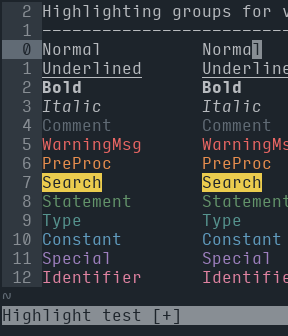
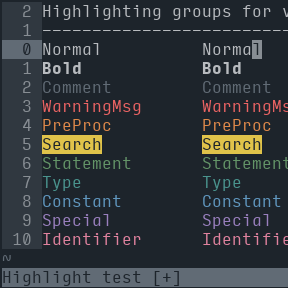
overhaul

Changed region(s): [[0.0, 0.0, 0.5, 0.875], [0.1562, 0.0, 1.0, 0.875], [0.0, 0.875, 1.0, 1.0]]

diff --git a/README.md b/README.md
@@ -1,6 +1,6 @@
 <h1 id="seagrey">seagrey</h1>
 
-<p>A vim theme inspired by the sea.</p>
+<p>A vim theme inspired by the blue-greys of an overcast sea.</p>
 
 <h2 id="screenshots">screenshots</h2>
 
@@ -9,6 +9,10 @@
 <td align="center"><img src="/img/screenshot-seagrey-light.png" alt="screenshot of the seagrey-light vim theme" width="288" /> <img src="/img/screenshot-seagrey-dark.png" alt="screenshot of the seagrey-dark vim theme" width="288" /></td>
 <td align="center"><strong>seagrey-<br />dark</strong></td></tr>
 </table>
+
+<blockquote>
+  <p>pictured font: <a href="http://input.fontbureau.com/">Input Mono</a></p>
+</blockquote>
 
 <h2 id="setup">setup</h2>
 
@@ -60,8 +64,8 @@ call plug#end()
   <li>8 theme-distinct <strong>base colours</strong></li>
   <li>8 standard <strong>accent colours</strong> (shared by members of the “nightsense theme family”) for syntax highlighting
     <ul>
-      <li>hue selection at the scale of 1/12 (30°) colour wheel intervals, followed by 1/12 subinterval adjustments</li>
-      <li>value and saturation tuned for light backgrounds, then saturation lowered for dark backgrounds</li>
+      <li>hues were selected at the scale of 1/12 (30°) colour wheel intervals, followed by 1/12 subinterval adjustments</li>
+      <li>value and saturation were tuned for light backgrounds, then saturation was lowered for dark backgrounds</li>
     </ul>
   </li>
 </ul>
@@ -77,67 +81,67 @@ call plug#end()
   <tbody>
     <tr>
       <td style="text-align: right"><img src="http://www.colorhexa.com/1d242b.png" height="24" width="42" /> <code class="highlighter-rouge">1d242b</code> </td>
-      <td style="text-align: center"><img src="http://www.colorhexa.com/eb403a.png" height="24" width="42" /> <code class="highlighter-rouge">eb403a</code> </td>
-      <td style="text-align: left"><img src="http://www.colorhexa.com/eb6663.png" height="24" width="42" /> <code class="highlighter-rouge">eb6663</code></td>
+      <td style="text-align: center"><img src="http://www.colorhexa.com/eb3a3a.png" height="24" width="42" /> <code class="highlighter-rouge">eb3a3a</code> </td>
+      <td style="text-align: left"><img src="http://www.colorhexa.com/eb6363.png" height="24" width="42" /> <code class="highlighter-rouge">eb6363</code></td>
     </tr>
     <tr>
       <td style="text-align: right"><img src="http://www.colorhexa.com/303840.png" height="24" width="42" /> <code class="highlighter-rouge">303840</code> </td>
-      <td style="text-align: center"><img src="http://www.colorhexa.com/eb6d13.png" height="24" width="42" /> <code class="highlighter-rouge">eb6d13</code> </td>
-      <td style="text-align: left"><img src="http://www.colorhexa.com/eb8f4e.png" height="24" width="42" /> <code class="highlighter-rouge">eb8f4e</code></td>
+      <td style="text-align: center"><img src="http://www.colorhexa.com/e06812.png" height="24" width="42" /> <code class="highlighter-rouge">e06812</code> </td>
+      <td style="text-align: left"><img src="http://www.colorhexa.com/e0894a.png" height="24" width="42" /> <code class="highlighter-rouge">e0894a</code></td>
     </tr>
     <tr>
       <td style="text-align: right"><img src="http://www.colorhexa.com/3f4a54.png" height="24" width="42" /> <code class="highlighter-rouge">3f4a54</code> </td>
-      <td style="text-align: center"><img src="http://www.colorhexa.com/ebc83b.png" height="24" width="42" /> <code class="highlighter-rouge">ebc83b</code> </td>
-      <td style="text-align: left"><img src="http://www.colorhexa.com/ebcc4e.png" height="24" width="42" /> <code class="highlighter-rouge">ebcc4e</code></td>
+      <td style="text-align: center"><img src="http://www.colorhexa.com/e0bf38.png" height="24" width="42" /> <code class="highlighter-rouge">e0bf38</code> </td>
+      <td style="text-align: left"><img src="http://www.colorhexa.com/e0c34a.png" height="24" width="42" /> <code class="highlighter-rouge">e0c34a</code></td>
     </tr>
     <tr>
       <td style="text-align: right"><img src="http://www.colorhexa.com/616b75.png" height="24" width="42" /> <code class="highlighter-rouge">616b75</code> </td>
-      <td style="text-align: center"><img src="http://www.colorhexa.com/259433.png" height="24" width="42" /> <code class="highlighter-rouge">259433</code> </td>
-      <td style="text-align: left"><img src="http://www.colorhexa.com/63946a.png" height="24" width="42" /> <code class="highlighter-rouge">63946a</code></td>
+      <td style="text-align: center"><img src="http://www.colorhexa.com/25942e.png" height="24" width="42" /> <code class="highlighter-rouge">25942e</code> </td>
+      <td style="text-align: left"><img src="http://www.colorhexa.com/639467.png" height="24" width="42" /> <code class="highlighter-rouge">639467</code></td>
     </tr>
     <tr>
       <td style="text-align: right"><img src="http://www.colorhexa.com/888e94.png" height="24" width="42" /> <code class="highlighter-rouge">888e94</code> </td>
-      <td style="text-align: center"><img src="http://www.colorhexa.com/009488.png" height="24" width="42" /> <code class="highlighter-rouge">009488</code> </td>
-      <td style="text-align: left"><img src="http://www.colorhexa.com/56948f.png" height="24" width="42" /> <code class="highlighter-rouge">56948f</code></td>
+      <td style="text-align: center"><img src="http://www.colorhexa.com/0c9489.png" height="24" width="42" /> <code class="highlighter-rouge">0c9489</code> </td>
+      <td style="text-align: left"><img src="http://www.colorhexa.com/4a948e.png" height="24" width="42" /> <code class="highlighter-rouge">4a948e</code></td>
     </tr>
     <tr>
       <td style="text-align: right"><img src="http://www.colorhexa.com/b8bbbf.png" height="24" width="42" /> <code class="highlighter-rouge">b8bbbf</code> </td>
-      <td style="text-align: center"><img src="http://www.colorhexa.com/308bbf.png" height="24" width="42" /> <code class="highlighter-rouge">308bbf</code> </td>
-      <td style="text-align: left"><img src="http://www.colorhexa.com/609cbf.png" height="24" width="42" /> <code class="highlighter-rouge">609cbf</code></td>
+      <td style="text-align: center"><img src="http://www.colorhexa.com/3083bf.png" height="24" width="42" /> <code class="highlighter-rouge">3083bf</code> </td>
+      <td style="text-align: left"><img src="http://www.colorhexa.com/6097bf.png" height="24" width="42" /> <code class="highlighter-rouge">6097bf</code></td>
     </tr>
     <tr>
       <td style="text-align: right"><img src="http://www.colorhexa.com/e1e6eb.png" height="24" width="42" /> <code class="highlighter-rouge">e1e6eb</code> </td>
-      <td style="text-align: center"><img src="http://www.colorhexa.com/8c60bf.png" height="24" width="42" /> <code class="highlighter-rouge">8c60bf</code> </td>
-      <td style="text-align: left"><img src="http://www.colorhexa.com/9e80bf.png" height="24" width="42" /> <code class="highlighter-rouge">9e80bf</code></td>
+      <td style="text-align: center"><img src="http://www.colorhexa.com/8760bf.png" height="24" width="42" /> <code class="highlighter-rouge">8760bf</code> </td>
+      <td style="text-align: left"><img src="http://www.colorhexa.com/9a80bf.png" height="24" width="42" /> <code class="highlighter-rouge">9a80bf</code></td>
     </tr>
     <tr>
       <td style="text-align: right"><img src="http://www.colorhexa.com/ffffff.png" height="24" width="42" /> <code class="highlighter-rouge">ffffff</code> </td>
-      <td style="text-align: center"><img src="http://www.colorhexa.com/e05e89.png" height="24" width="42" /> <code class="highlighter-rouge">e05e89</code> </td>
-      <td style="text-align: left"><img src="http://www.colorhexa.com/e082a1.png" height="24" width="42" /> <code class="highlighter-rouge">e082a1</code></td>
+      <td style="text-align: center"><img src="http://www.colorhexa.com/e05e85.png" height="24" width="42" /> <code class="highlighter-rouge">e05e85</code> </td>
+      <td style="text-align: left"><img src="http://www.colorhexa.com/e0829e.png" height="24" width="42" /> <code class="highlighter-rouge">e0829e</code></td>
     </tr>
   </tbody>
 </table>
 
-<p><img src="http://www.colorhexa.com/eb403a.png" height="24" width="42" />
+<p><img src="http://www.colorhexa.com/eb3a3a.png" height="24" width="42" />
 <strong>Red</strong>, the colour of alarm, is used for <strong>warning elements</strong>, including error messages, misspellings, and diff deletions.</p>
 
-<p><img src="http://www.colorhexa.com/eb6d13.png" height="24" width="42" />
+<p><img src="http://www.colorhexa.com/e06812.png" height="24" width="42" />
 <strong>Orange</strong> is the colour of fire, which serves as a preliminary to many practical activities. Orange is therefore used for <strong>preliminary elements</strong>, such as preprocessor commands (which prepare data to be handled by another program), incremental searching (that is, a search term in the process of being typed), titles, and miscapitalized words.</p>
 
-<p><img src="http://www.colorhexa.com/ebc83b.png" height="24" width="42" />
+<p><img src="http://www.colorhexa.com/e0bf38.png" height="24" width="42" />
 <strong>Yellow</strong>, the classic highlighting colour, is applied to elements that are not warnings yet should draw attention with high visibility. These <strong>highlighted elements</strong> include search results, task tags (<code class="highlighter-rouge">TODO</code>, <code class="highlighter-rouge">FIXME</code>…), and diff changes.</p>
 
-<p><img src="http://www.colorhexa.com/259433.png" height="24" width="42" />
-<strong>Green</strong>, the colour that says “go ahead, proceed with the task at hand”, is used for positive <strong>action elements</strong>, such as statements (if/then, while/do, case…), mode indicators (insert, visual…), vim user prompts, and diff additions.</p>
+<p><img src="http://www.colorhexa.com/25942e.png" height="24" width="42" />
+<strong>Green</strong>, the colour that says “go ahead, proceed with the task at hand”, is used for <strong>action elements</strong>, such as statements (if/then, while/do, case…), mode indicators (insert, visual…), vim user prompts, and diff additions.</p>
 
-<p><img src="http://www.colorhexa.com/009488.png" height="24" width="42" />
+<p><img src="http://www.colorhexa.com/0c9489.png" height="24" width="42" />
 <strong>Teal</strong> is named after the “common teal”, a kind of duck, thus connecting this colour with the concept of “species”, which is a means of classifying life into very specific types. Teal is therefore used for specifying <strong>object types</strong>, such as data type (boolean, integer, string…) or storage class (static, volatile…), as well as mislocalized words (that is, words that are not misspelled but of the wrong type, namely a foreign locale type).</p>
 
-<p><img src="http://www.colorhexa.com/308bbf.png" height="24" width="42" />
+<p><img src="http://www.colorhexa.com/3083bf.png" height="24" width="42" />
 <strong>Blue</strong>, a colour of calm stability, is used for <strong>constants</strong>, which come in the form of boolean values, integers, floating-point numbers, characters, and strings.</p>
 
-<p><img src="http://www.colorhexa.com/8c60bf.png" height="24" width="42" />
+<p><img src="http://www.colorhexa.com/8760bf.png" height="24" width="42" />
 <strong>Purple</strong>, often associated with rare purple dyes historically produced for special works of art, is used for <strong>special text</strong>, including special characters (standalone or within syntax units), vim tags, and debugging statements. Rarely-used words are also marked, allowing the writer to consider whether such a specially uncommon word is appropriate.</p>
 
-<p><img src="http://www.colorhexa.com/e05e89.png" height="24" width="42" />
+<p><img src="http://www.colorhexa.com/e05e85.png" height="24" width="42" />
 <strong>Pink</strong>, the colour of spring blossoms, is used for <strong>object names</strong>, including the names of variables and functions. To code is to bring countless objects blossoming into existence as one types their names.</p>
